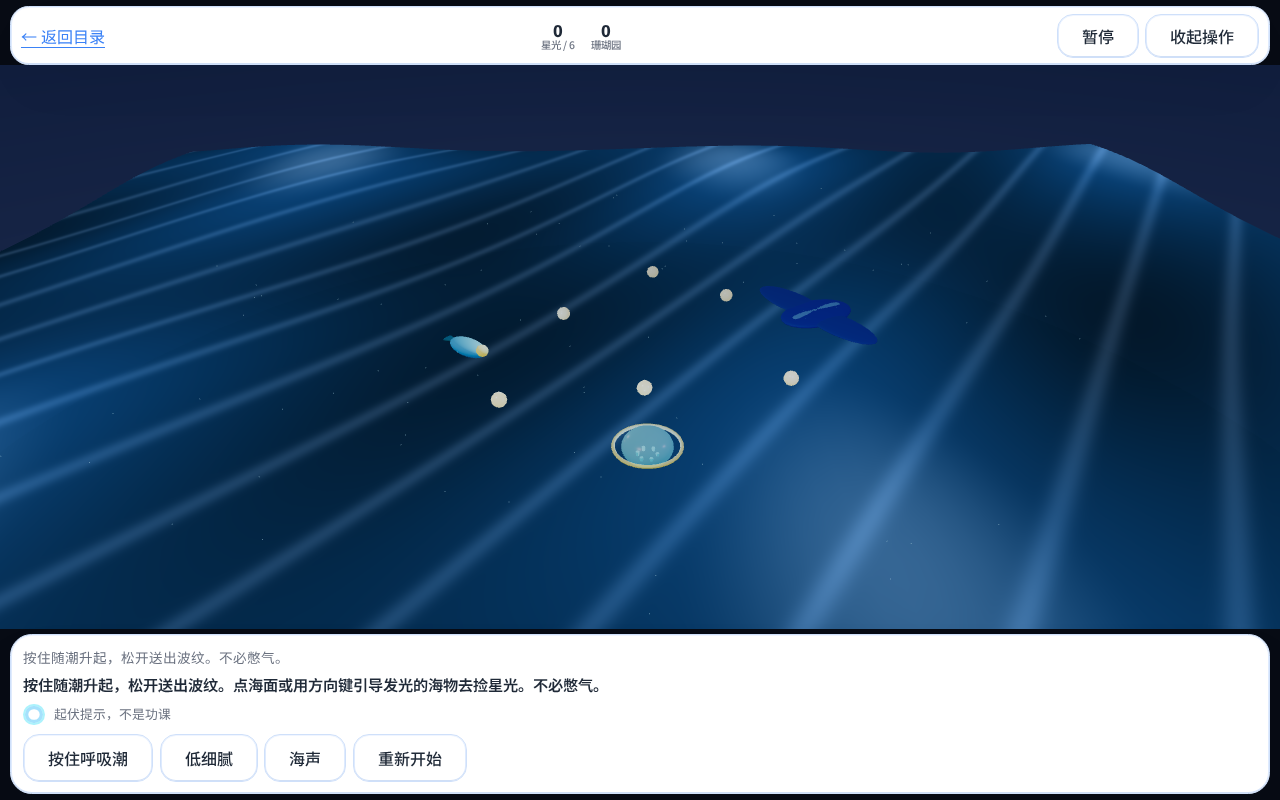
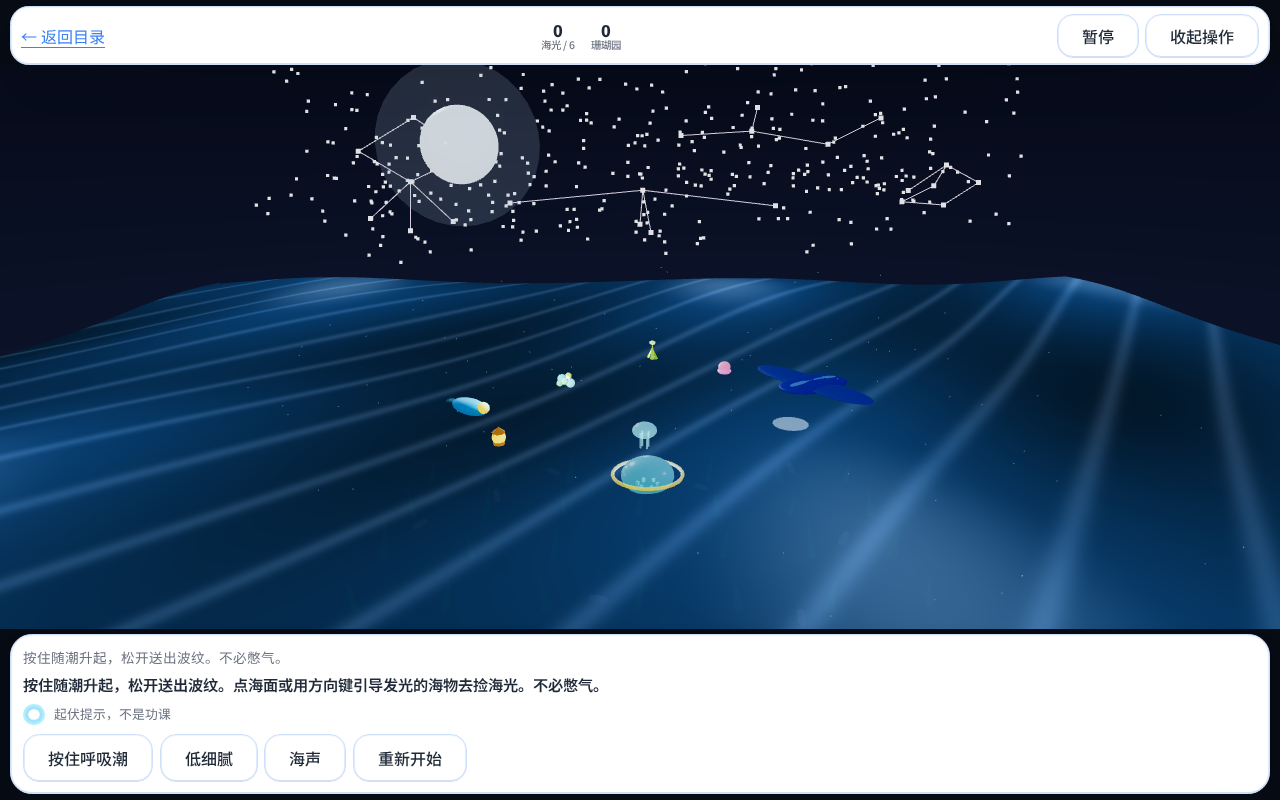
fix(tide): put moon, stars, and constellations in the camera sky band
The approved camera looks slightly down, so zenith-placed stars sat above the frame. Place the field in the visible band so low-detail still shows moon, dense stars, and the four line figures.

diff --git a/web/src/lib/games/tide/sky.ts b/web/src/lib/games/tide/sky.ts
@@ -1,8 +1,22 @@
 export const TIDE_CAMERA = {
 	position: [0, 5.2, 12.8] as const,
-	lookAt: [0, 1.4, -1.8] as const,
-	moon: [-5, 12.2, -9.4] as const
+	lookAt: [0, 1.4, -1.8] as const
 };
+
+const FORWARD = [0, -0.25198, -0.96773] as const;
+const UP = [0, 0.96773, -0.25198] as const;
+const RIGHT = [1, 0, 0] as const;
+
+export function skyBandPoint(nx: number, ny: number, dist: number): [number, number, number] {
+	const [px, py, pz] = TIDE_CAMERA.position;
+	return [
+		px + FORWARD[0] * dist + UP[0] * ny + RIGHT[0] * nx,
+		py + FORWARD[1] * dist + UP[1] * ny + RIGHT[1] * nx,
+		pz + FORWARD[2] * dist + UP[2] * ny + RIGHT[2] * nx
+	];
+}
+
+export const TIDE_MOON = skyBandPoint(-5.4, 6.05, 22);
 
 export function skyStarCount(lowDetail: boolean) {
 	return lowDetail ? 400 : 900;
@@ -16,23 +30,31 @@ export interface Constellation {
 	edges: [number, number][];
 }
 
-function pt(x: number, y: number, z: number): [number, number, number] {
-	return [x, y, z];
+function figure(
+	name: ConstellationName,
+	dots: Array<[number, number, number]>,
+	edges: [number, number][]
+): Constellation {
+	return {
+		name,
+		points: dots.map(([nx, ny, dist]) => skyBandPoint(nx, ny, dist)),
+		edges
+	};
 }
 
 export const CONSTELLATIONS: Constellation[] = [
-	{
-		name: '水母',
-		points: [
-			pt(-8.5, 14.2, -12.5),
-			pt(-6.8, 16.4, -13.2),
-			pt(-5.1, 14.0, -12.8),
-			pt(-6.9, 12.6, -12.4),
-			pt(-8.0, 10.2, -11.8),
-			pt(-6.8, 9.4, -11.6),
-			pt(-5.6, 10.0, -11.9)
+	figure(
+		'水母',
+		[
+			[-9.2, 6.4, 24],
+			[-7.4, 7.5, 24],
+			[-5.6, 6.3, 24],
+			[-7.5, 5.4, 24],
+			[-8.8, 4.2, 24],
+			[-7.5, 3.8, 24],
+			[-6.1, 4.1, 24]
 		],
-		edges: [
+		[
 			[0, 1],
 			[1, 2],
 			[2, 3],
@@ -41,50 +63,50 @@ export const CONSTELLATIONS: Constellation[] = [
 			[3, 5],
 			[3, 6]
 		]
-	},
-	{
-		name: '灯鱼',
-		points: [
-			pt(1.2, 15.8, -14.2),
-			pt(3.4, 16.1, -14.0),
-			pt(5.6, 15.4, -13.4),
-			pt(7.1, 16.8, -13.6),
-			pt(3.6, 17.4, -14.4)
+	),
+	figure(
+		'灯鱼',
+		[
+			[1.4, 7.2, 25],
+			[3.8, 7.35, 25],
+			[6.4, 6.9, 25],
+			[8.2, 7.8, 25],
+			[4.0, 8.15, 25]
 		],
-		edges: [
+		[
 			[0, 1],
 			[1, 2],
 			[2, 3],
 			[1, 4]
 		]
-	},
-	{
-		name: '蝠鲼',
-		points: [
-			pt(-2.2, 11.8, -16.4),
-			pt(0.2, 12.6, -15.6),
-			pt(2.6, 11.6, -16.2),
-			pt(0.0, 10.8, -14.8),
-			pt(0.4, 10.4, -17.2)
+	),
+	figure(
+		'蝠鲼',
+		[
+			[-4.6, 5.1, 26],
+			[0.1, 5.55, 26],
+			[4.8, 5.0, 26],
+			[0.0, 4.35, 26],
+			[0.4, 4.15, 26.6]
 		],
-		edges: [
+		[
 			[0, 1],
 			[1, 2],
 			[1, 3],
 			[1, 4]
 		]
-	},
-	{
-		name: '螺',
-		points: [
-			pt(7.8, 12.4, -11.2),
-			pt(8.8, 13.6, -11.8),
-			pt(9.6, 12.8, -12.6),
-			pt(8.6, 11.8, -12.8),
-			pt(7.6, 12.0, -12.0),
-			pt(8.4, 12.6, -12.2)
+	),
+	figure(
+		'螺',
+		[
+			[8.4, 4.9, 23],
+			[9.6, 5.7, 23],
+			[10.6, 5.15, 23],
+			[9.5, 4.45, 23],
+			[8.2, 4.55, 23],
+			[9.2, 5.05, 23]
 		],
-		edges: [
+		[
 			[0, 1],
 			[1, 2],
 			[2, 3],
@@ -92,7 +114,7 @@ export const CONSTELLATIONS: Constellation[] = [
 			[4, 5],
 			[5, 1]
 		]
-	}
+	)
 ];
 
 export function constellationLinePositions(constellation: Constellation): Float32Array {
@@ -111,26 +133,13 @@ export function fillSkyStarPositions(count: number, out: Float32Array, seed = 11
 		state = (Math.imul(state, 1664525) + 1013904223) >>> 0;
 		return state / 4294967296;
 	};
-	let i = 0;
-	let guard = 0;
-	while (i < count && guard < count * 24) {
-		guard += 1;
-		const theta = rand() * Math.PI * 2;
-		const y = 0.22 + rand() * 0.78;
-		const r = Math.sqrt(Math.max(0, 1 - y * y));
-		const x = Math.cos(theta) * r;
-		const z = Math.sin(theta) * r;
-		if (z > 0.28) continue;
-		const radius = 22 + rand() * 12;
-		out[i * 3] = x * radius;
-		out[i * 3 + 1] = y * radius;
-		out[i * 3 + 2] = z * radius;
-		i += 1;
-	}
-	while (i < count) {
-		out[i * 3] = (rand() - 0.5) * 28;
-		out[i * 3 + 1] = 8 + rand() * 16;
-		out[i * 3 + 2] = -8 - rand() * 14;
-		i += 1;
+	for (let i = 0; i < count; i++) {
+		const nx = (rand() - 0.5) * 22;
+		const ny = 3.4 + rand() * 5.4;
+		const dist = 18 + rand() * 12;
+		const point = skyBandPoint(nx, ny, dist);
+		out[i * 3] = point[0];
+		out[i * 3 + 1] = point[1];
+		out[i * 3 + 2] = point[2];
 	}
 }

diff --git a/web/src/lib/games/tide/render.ts b/web/src/lib/games/tide/render.ts
@@ -3,6 +3,7 @@ import type { CoralPatch, Creature, HaulKind, TideWorld } from './sim';
 import {
 	CONSTELLATIONS,
 	TIDE_CAMERA,
+	TIDE_MOON,
 	constellationLinePositions,
 	fillSkyStarPositions,
 	skyStarCount
@@ -117,7 +118,7 @@ export function mountTideScene(canvas: HTMLCanvasElement): TideScene | null {
 	renderer.setClearColor(0x070b14, 1);
 
 	const scene = new THREE.Scene();
-	scene.fog = new THREE.FogExp2(0x0b1220, 0.022);
+	scene.fog = new THREE.FogExp2(0x0b1220, 0.01);
 	const camera = new THREE.PerspectiveCamera(42, 1, 0.1, 120);
 	camera.position.set(...TIDE_CAMERA.position);
 	camera.lookAt(...TIDE_CAMERA.lookAt);
@@ -143,7 +144,7 @@ export function mountTideScene(canvas: HTMLCanvasElement): TideScene | null {
 	const hemi = new THREE.HemisphereLight(0x8ec9ff, 0x0b3a4a, 0.55);
 	scene.add(hemi);
 	const moon = new THREE.DirectionalLight(0xdbe7ff, 1.35);
-	moon.position.set(...TIDE_CAMERA.moon);
+	moon.position.set(...TIDE_MOON);
 	moon.castShadow = true;
 	moon.shadow.mapSize.set(1024, 1024);
 	moon.shadow.camera.near = 1;
@@ -176,7 +177,7 @@ export function mountTideScene(canvas: HTMLCanvasElement): TideScene | null {
 		keepMat(mat(0xf8fafc, { emissive: 0xf8fafc, emissiveIntensity: 0.85, roughness: 0.35 }))
 	);
 	moonBall.position.copy(moon.position);
-	moonBall.scale.setScalar(0.55);
+	moonBall.scale.setScalar(1.15);
 	scene.add(moonBall);
 	const moonGlow = new THREE.Mesh(
 		sphere,
@@ -191,7 +192,7 @@ export function mountTideScene(canvas: HTMLCanvasElement): TideScene | null {
 		)
 	);
 	moonGlow.position.copy(moon.position);
-	moonGlow.scale.setScalar(1.35);
+	moonGlow.scale.setScalar(2.4);
 	scene.add(moonGlow);
 
 	const starGeo = keepGeo(new THREE.BufferGeometry());
@@ -203,13 +204,13 @@ export function mountTideScene(canvas: HTMLCanvasElement): TideScene | null {
 		starGeo,
 		keepMat(
 			new THREE.PointsMaterial({
-				color: 0xe8f4ff,
-				size: 0.14,
+				color: 0xf8fbff,
+				size: 2.4,
 				transparent: true,
-				opacity: 0.92,
+				opacity: 1,
 				depthWrite: false,
 				fog: false,
-				sizeAttenuation: true
+				sizeAttenuation: false
 			})
 		)
 	);
@@ -228,9 +229,9 @@ export function mountTideScene(canvas: HTMLCanvasElement): TideScene | null {
 			geo,
 			keepMat(
 				new THREE.LineBasicMaterial({
-					color: 0xc4b5fd,
+					color: 0xe9d5ff,
 					transparent: true,
-					opacity: 0.82,
+					opacity: 0.95,
 					depthWrite: false,
 					fog: false
 				})
@@ -239,6 +240,30 @@ export function mountTideScene(canvas: HTMLCanvasElement): TideScene | null {
 		lines.name = `constellation-${constellation.name}`;
 		lines.frustumCulled = false;
 		constellationRoot.add(lines);
+		const dotGeo = keepGeo(new THREE.BufferGeometry());
+		const dots = new Float32Array(constellation.points.length * 3);
+		constellation.points.forEach((point, i) => {
+			dots[i * 3] = point[0];
+			dots[i * 3 + 1] = point[1];
+			dots[i * 3 + 2] = point[2];
+		});
+		dotGeo.setAttribute('position', new THREE.BufferAttribute(dots, 3));
+		constellationRoot.add(
+			new THREE.Points(
+				dotGeo,
+				keepMat(
+					new THREE.PointsMaterial({
+						color: 0xf5f3ff,
+						size: 5,
+						transparent: true,
+						opacity: 1,
+						depthWrite: false,
+						fog: false,
+						sizeAttenuation: false
+					})
+				)
+			)
+		);
 	}
 	scene.add(constellationRoot);
 
@@ -661,7 +686,7 @@ export function mountTideScene(canvas: HTMLCanvasElement): TideScene | null {
 		stars.visible = true;
 		const starCount = skyStarCount(lowDetail);
 		starGeo.setDrawRange(0, starCount);
-		(stars.material as TidePointsMat).size = lowDetail ? 0.18 : 0.14;
+		(stars.material as TidePointsMat).size = lowDetail ? 3.2 : 2.4;
 		constellationRoot.visible = true;
 		seabed.visible = true;
 	}

diff --git a/web/src/lib/games/tide/sky.spec.ts b/web/src/lib/games/tide/sky.spec.ts
@@ -1,21 +1,23 @@
 import { describe, expect, it } from 'vitest';
-import { CONSTELLATIONS, TIDE_CAMERA, skyStarCount } from './sky';
+import { CONSTELLATIONS, TIDE_CAMERA, TIDE_MOON, skyStarCount } from './sky';
 
 describe('tide night sky', () => {
 	it('keeps the approved camera so a sky band is in frame', () => {
 		expect(TIDE_CAMERA.position).toEqual([0, 5.2, 12.8]);
 		expect(TIDE_CAMERA.lookAt).toEqual([0, 1.4, -1.8]);
-		expect(TIDE_CAMERA.moon).toEqual([-5, 12.2, -9.4]);
+		expect(TIDE_MOON[1]).toBeGreaterThan(3.5);
+		expect(TIDE_MOON[2]).toBeLessThan(0);
+		expect(TIDE_MOON[0]).toBeLessThan(-2);
 	});
 
-	it('places four named constellations in the visible sky hemisphere', () => {
+	it('places four named constellations in the visible sky band', () => {
 		expect(CONSTELLATIONS.map((c) => c.name)).toEqual(['水母', '灯鱼', '蝠鲼', '螺']);
 		for (const constellation of CONSTELLATIONS) {
 			expect(constellation.points.length).toBeGreaterThanOrEqual(4);
 			expect(constellation.edges.length).toBeGreaterThanOrEqual(3);
 			for (const point of constellation.points) {
-				expect(point[1]).toBeGreaterThan(6);
-				expect(point[2]).toBeLessThan(2);
+				expect(point[1]).toBeGreaterThan(2.4);
+				expect(point[2]).toBeLessThan(4);
 			}
 			for (const [a, b] of constellation.edges) {
 				expect(a).toBeGreaterThanOrEqual(0);

diff --git a/web/e2e/tide-breath.e2e.ts b/web/e2e/tide-breath.e2e.ts
@@ -45,7 +45,9 @@ test.describe('潮汐呼吸', () => {
 		await expect(sea).toHaveAttribute('data-constellations', '4');
 		await expect(sea).toHaveAttribute('data-hauls', '6');
 		await page.screenshot({ path: 'screenshots/tide-breath-play-1280-dark.png' });
+		await page.getByRole('button', { name: '收起操作' }).click();
 		await page.screenshot({ path: 'screenshots/tide-breath-sky-1280-dark.png' });
+		await page.getByRole('button', { name: '展开操作' }).click();
 		const swell0 = Number(await sea.getAttribute('data-swell'));
 		await page.keyboard.down('Space');
 		await expect
